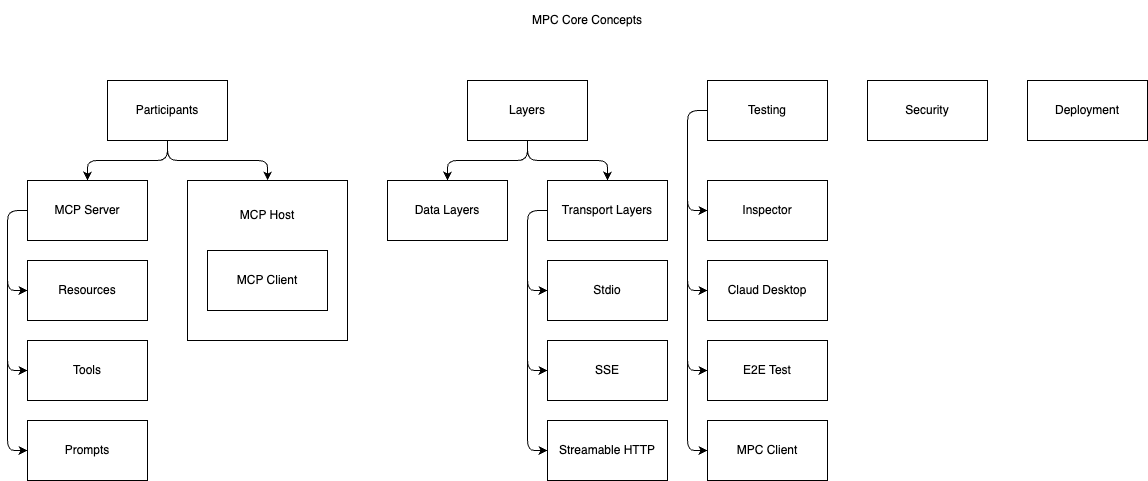
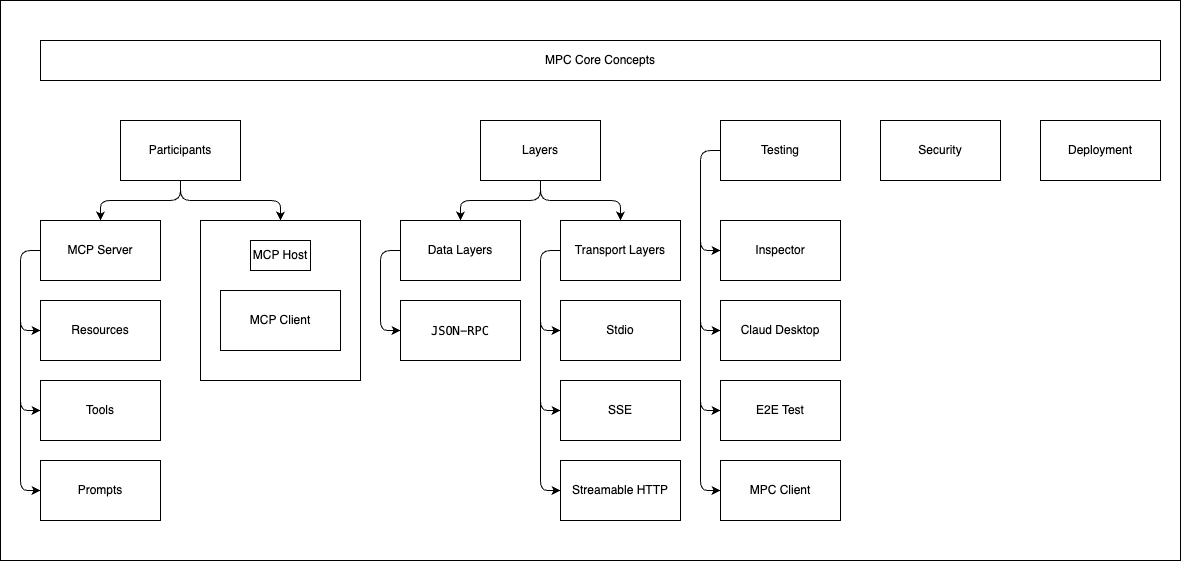
docs: reorganize core concepts with improved architecture diagrams

diff --git a/docs/01-CoreConcepts/overview.md b/docs/01-CoreConcepts/overview.md
@@ -1,5 +1,8 @@
 ---
 title: Core Concepts
+description: MCP Practitioner Guide is a community-powered study hub to help you master the MCP exam.
+keywords:
+  - MCP Core Concepts
 sidebar_position: 1
 ---
 
@@ -7,43 +10,42 @@ sidebar_position: 1
 
 Understanding MCP's core concepts is essential for effectively implementing and using the protocol. This section covers the fundamental components and how they work together.
 
+![MCP Architecture](./overview.png)
+
 ## Architecture Overview
 
 MCP follows a client-server architecture with three main components:
 
 ```mermaid
 graph TB
-    subgraph "AI Assistant Environment"
+    subgraph "Host"
         A[AI Assistant] --> B[MCP Client]
     end
     
-    subgraph "MCP Protocol Layer"
+    subgraph "Layers"
         B --> data[Data layer]
+        data --> trasport[Transport layer]
         data --> server[JSON-RPC 2.0]
-        data --> transport[stdio, SSE, Streamable HTTP]
+        trasport --> mechanisms[stdio, SSE, Streamable HTTP]
     end
     
-    subgraph "Resource Provider Environment"
-        transport --> D[MCP Server]
+    subgraph "Server"
+        mechanisms --> D[MCP Server]
         D --> E[Resources]
         D --> F[Tools]
         D --> G[Prompts]
     end
 ```
 
-
-![MCP Architecture](./overview.png)
-
-
 ## Participants
 
 MCP involves three main participants that work together to enable AI assistants to access external resources and capabilities.
 
-### MCP Server
+### 1. MCP Server
 
 The **MCP Server** is the component that provides access to external resources, tools, and capabilities. It acts as a bridge between the AI assistant and various data sources or services.
 
-#### Resources
+#### 1.1 Resources
 **Resources** are read-only data sources that servers expose to clients:
 
 - **File Resources**: Access to local or remote files (documents, code, configurations)
@@ -59,7 +61,7 @@ The **MCP Server** is the component that provides access to external resources, 
 - Support for both text and binary content
 - Can be dynamically discovered and updated
 
-#### Tools
+#### 1.2 Tools
 **Tools** are executable functions that servers provide to perform actions:
 
 - **Data Processing Tools**: Transform, filter, or analyze data
@@ -75,7 +77,7 @@ The **MCP Server** is the component that provides access to external resources, 
 - Support for both synchronous and asynchronous execution
 - Include detailed descriptions and usage examples
 
-#### Prompts
+#### 1.3 Prompts
 **Prompts** are reusable prompt templates that standardize common AI interactions:
 
 - **Analysis Prompts**: Templates for data analysis, code review, or content evaluation
@@ -89,7 +91,7 @@ The **MCP Server** is the component that provides access to external resources, 
 - Can include context from resources or tool outputs
 - Version control and template inheritance
 
-### MCP Host
+### 2. MCP Host
 
 The **MCP Host** is the runtime environment that manages MCP servers and facilitates communication between clients and servers.
 
@@ -108,7 +110,7 @@ The **MCP Host** is the runtime environment that manages MCP servers and facilit
 - **Server Applications**: Cloud-hosted AI services
 - **Mobile Applications**: AI assistants on mobile devices
 
-### MCP Client
+### 3. MCP Client
 
 The **MCP Client** is embedded within AI assistants and handles all MCP protocol communication.
 
@@ -128,11 +130,11 @@ The **MCP Client** is embedded within AI assistants and handles all MCP protocol
 - Response streaming for large datasets
 - Offline mode with cached data
 
-## Layers
+## 4. Layers
 
 MCP is organized into distinct layers that separate concerns and enable flexibility in implementation.
 
-### Data Layer
+### 4.1 Data Layer
 
 The **Data Layer** defines how information is structured and exchanged between MCP components.
 
@@ -155,7 +157,7 @@ The **Data Layer** defines how information is structured and exchanged between M
 - Encryption for sensitive data
 - Access control and permissions
 
-### Transport Layer
+### 4.2 Transport Layer
 
 The **Transport Layer** handles the actual communication between MCP clients and servers.
 
@@ -231,91 +233,3 @@ const transport = new HttpServerTransport({
 });
 ```
 
-## Testing
-
-MCP provides comprehensive testing tools and frameworks to ensure reliable implementations.
-
-### Inspector
-**MCP Inspector** is a debugging and development tool for MCP servers:
-
-**Features:**
-- **Interactive Testing**: Send requests and view responses in real-time
-- **Protocol Validation**: Verify JSON-RPC message compliance
-- **Resource Browser**: Explore available resources and their content
-- **Tool Tester**: Execute tools with custom parameters
-- **Performance Monitoring**: Track response times and resource usage
-- **Error Analysis**: Detailed error reporting and stack traces
-
-**Usage:**
-```bash
-npx @modelcontextprotocol/inspector server.js
-```
-
-### Claude Desktop
-**Claude Desktop** serves as a reference implementation and testing platform:
-
-**Testing Capabilities:**
-- **End-to-end Testing**: Full integration testing with real AI interactions
-- **User Experience Testing**: Validate the complete user workflow
-- **Performance Testing**: Measure real-world performance characteristics
-- **Compatibility Testing**: Ensure compatibility with different server implementations
-
-**Configuration:**
-```json
-{
-  "mcpServers": {
-    "test-server": {
-      "command": "node",
-      "args": ["server.js"]
-    }
-  }
-}
-```
-
-### E2E Test
-**End-to-End Testing Framework** provides automated testing capabilities:
-
-**Test Types:**
-- **Connection Tests**: Verify server startup and client connection
-- **Resource Tests**: Test resource discovery and content retrieval
-- **Tool Tests**: Validate tool execution and error handling
-- **Performance Tests**: Measure throughput and latency
-- **Security Tests**: Verify authentication and authorization
-
-**Example Test:**
-```javascript
-describe('MCP Server E2E Tests', () => {
-  it('should list resources', async () => {
-    const client = new TestClient();
-    await client.connect('node server.js');
-    
-    const resources = await client.listResources();
-    expect(resources).toBeDefined();
-    expect(resources.length).toBeGreaterThan(0);
-  });
-});
-```
-
-### MCP Client
-**MCP Client SDK** includes built-in testing utilities:
-
-**Testing Features:**
-- **Mock Servers**: Create mock servers for unit testing
-- **Test Transports**: In-memory transports for fast testing
-- **Assertion Helpers**: Specialized assertions for MCP protocols
-- **Coverage Analysis**: Track protocol method coverage
-
-**Mock Server Example:**
-```javascript
-const mockServer = new MockMCPServer({
-  resources: [
-    { uri: 'test://resource1', name: 'Test Resource' }
-  ],
-  tools: [
-    { name: 'test_tool', description: 'Test tool' }
-  ]
-});
-
-const client = new MCPClient();
-await client.connect(mockServer.transport);
-```

diff --git a/docs/02-GettingStarted/testing.md b/docs/02-GettingStarted/testing.md
@@ -1,0 +1,88 @@
+# Testing
+
+MCP provides comprehensive testing tools and frameworks to ensure reliable implementations.
+
+## Inspector
+**MCP Inspector** is a debugging and development tool for MCP servers:
+
+**Features:**
+- **Interactive Testing**: Send requests and view responses in real-time
+- **Protocol Validation**: Verify JSON-RPC message compliance
+- **Resource Browser**: Explore available resources and their content
+- **Tool Tester**: Execute tools with custom parameters
+- **Performance Monitoring**: Track response times and resource usage
+- **Error Analysis**: Detailed error reporting and stack traces
+
+**Usage:**
+```bash
+npx @modelcontextprotocol/inspector server.js
+```
+
+## Claude Desktop
+**Claude Desktop** serves as a reference implementation and testing platform:
+
+**Testing Capabilities:**
+- **End-to-end Testing**: Full integration testing with real AI interactions
+- **User Experience Testing**: Validate the complete user workflow
+- **Performance Testing**: Measure real-world performance characteristics
+- **Compatibility Testing**: Ensure compatibility with different server implementations
+
+**Configuration:**
+```json
+{
+  "mcpServers": {
+    "test-server": {
+      "command": "node",
+      "args": ["server.js"]
+    }
+  }
+}
+```
+
+## E2E Test
+**End-to-End Testing Framework** provides automated testing capabilities:
+
+**Test Types:**
+- **Connection Tests**: Verify server startup and client connection
+- **Resource Tests**: Test resource discovery and content retrieval
+- **Tool Tests**: Validate tool execution and error handling
+- **Performance Tests**: Measure throughput and latency
+- **Security Tests**: Verify authentication and authorization
+
+**Example Test:**
+```javascript
+describe('MCP Server E2E Tests', () => {
+  it('should list resources', async () => {
+    const client = new TestClient();
+    await client.connect('node server.js');
+    
+    const resources = await client.listResources();
+    expect(resources).toBeDefined();
+    expect(resources.length).toBeGreaterThan(0);
+  });
+});
+```
+
+## MCP Client
+**MCP Client SDK** includes built-in testing utilities:
+
+**Testing Features:**
+- **Mock Servers**: Create mock servers for unit testing
+- **Test Transports**: In-memory transports for fast testing
+- **Assertion Helpers**: Specialized assertions for MCP protocols
+- **Coverage Analysis**: Track protocol method coverage
+
+**Mock Server Example:**
+```javascript
+const mockServer = new MockMCPServer({
+  resources: [
+    { uri: 'test://resource1', name: 'Test Resource' }
+  ],
+  tools: [
+    { name: 'test_tool', description: 'Test tool' }
+  ]
+});
+
+const client = new MCPClient();
+await client.connect(mockServer.transport);
+```
